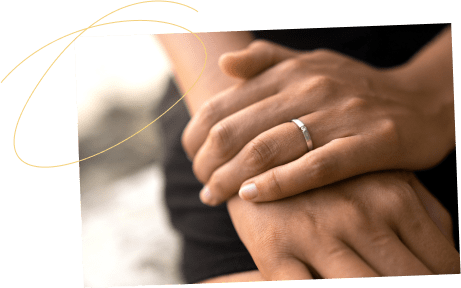
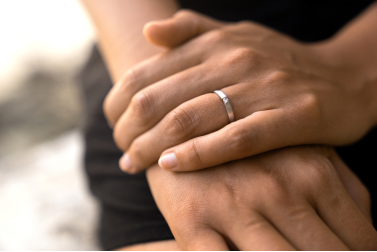
moment

diff --git a/index.html b/index.html
@@ -164,7 +164,9 @@
       </p>
       <div class="ein__cards">
         <div class="ein__card">
-          <img src="./assets/img/ein1-min.png" alt="">
+          <div class="ein__card__img">
+            <img src="./assets/img/ein1-min.png" alt="">
+          </div>
           <p class="ein__card__title">
             Der <span>Ring</span>
           </p>
@@ -173,7 +175,9 @@
           </p>
         </div>
         <div class="ein__card">
-          <img src="./assets/img/ein2-min.png" alt="">
+          <div class="ein__card__img">
+            <img src="./assets/img/ein2-min.png" alt="">
+          </div>
           <p class="ein__card__title">
             Der <span>Stein</span>
           </p>
@@ -182,7 +186,9 @@
           </p>
         </div>
         <div class="ein__card">
-          <img src="./assets/img/ein3-min.png" alt="">
+          <div class="ein__card__img">
+            <img src="./assets/img/ein3-min.png" alt="">
+          </div>
           <p class="ein__card__title">
             Das <span>Unikat</span>
           </p>

diff --git a/style/scss/style.scss b/style/scss/style.scss
@@ -557,10 +557,35 @@ button{
     display: flex;
     flex-direction: column;
     align-items: center;
+    &__img{
+      position: relative;
+      &::after{
+        content: "";
+        position: absolute;
+      }
+    }
     img{
       width: auto;
       height: 251px;
       margin-bottom: 60px;
+    }
+    &:nth-child(1){
+      .ein__card__img::after{
+        
+      }
+      img{
+        transform: rotate(-2.146deg);
+      }
+    }
+    &:nth-child(2){
+      img{
+        transform: rotate(1.977deg);
+      }
+    }
+    &:nth-child(3){
+      img{
+
+      }
     }
     &__title{
       color: var(--Alt-Weiss, #F9F9F9);

diff --git a/style/css/style.css b/style/css/style.css
@@ -708,10 +708,25 @@ button {
       -ms-flex-align: center;
           align-items: center;
 }
+.ein__card__img {
+  position: relative;
+}
+.ein__card__img::after {
+  content: "";
+  position: absolute;
+}
 .ein__card img {
   width: auto;
   height: 251px;
   margin-bottom: 60px;
+}
+.ein__card:nth-child(1) img {
+  -webkit-transform: rotate(-2.146deg);
+          transform: rotate(-2.146deg);
+}
+.ein__card:nth-child(2) img {
+  -webkit-transform: rotate(1.977deg);
+          transform: rotate(1.977deg);
 }
 .ein__card__title {
   color: var(--Alt-Weiss, #F9F9F9);
